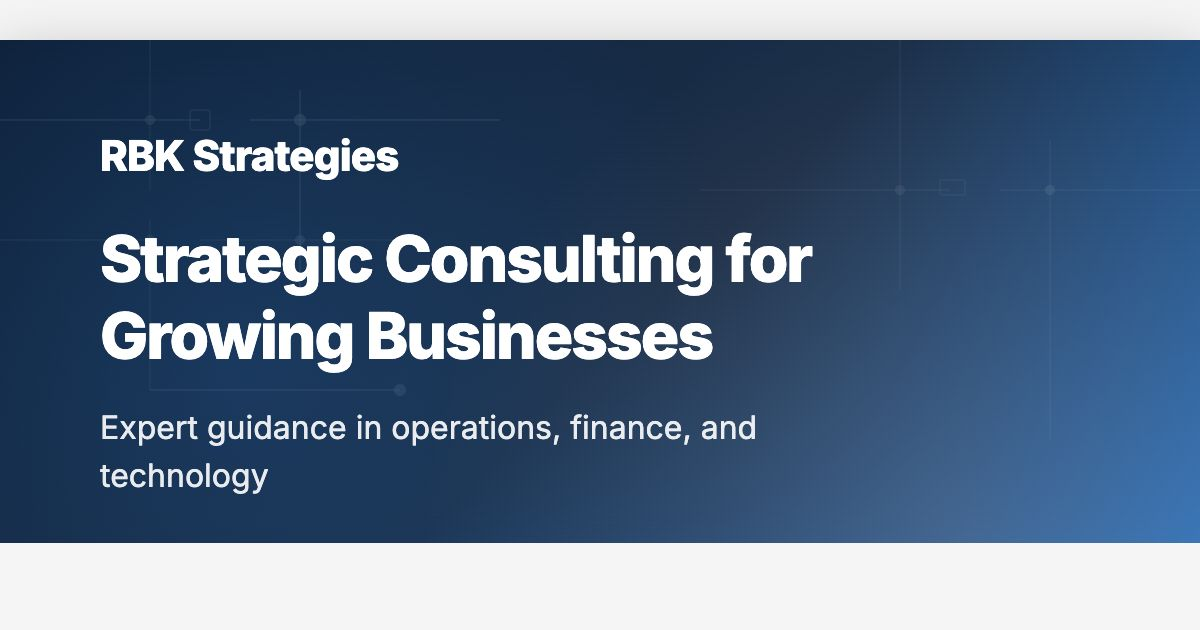
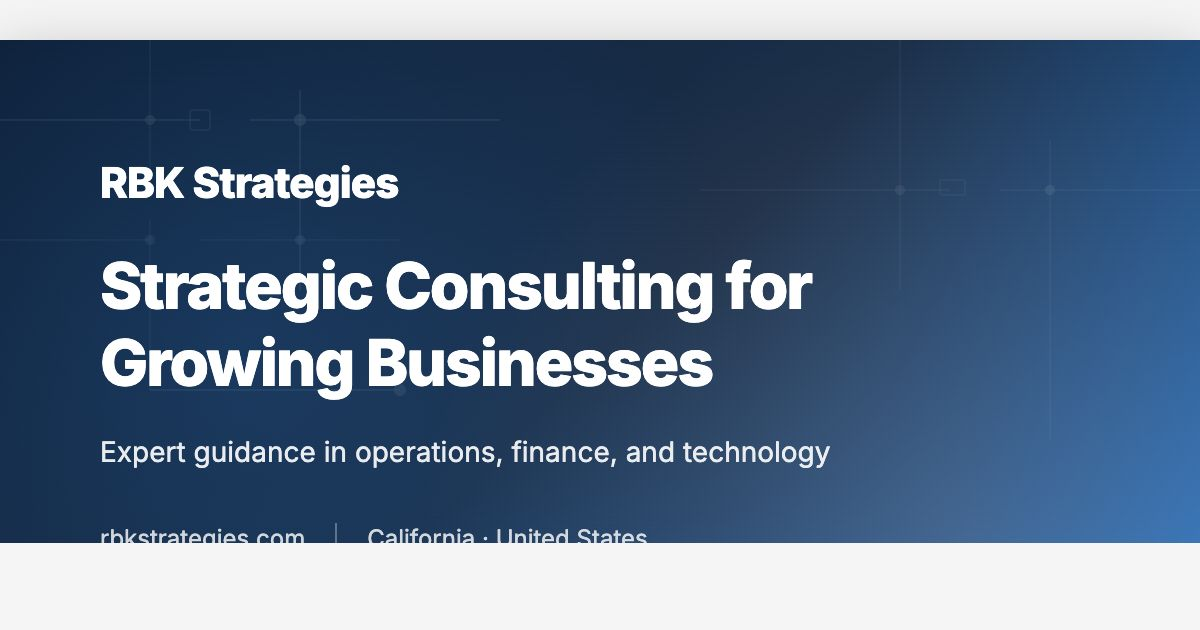
style: reduce OG image description font size for 2-line layout
Reduced description text from 32px to 28px so
'Expert guidance in operations, finance, and technology'
fits cleanly on 2 lines instead of 3.

🤖 Generated with [Claude Code](https://claude.com/claude-code)

diff --git a/og-image-template.html b/og-image-template.html
@@ -84,7 +84,7 @@
     }
 
     .description {
-      font-size: 32px;
+      font-size: 28px;
       font-weight: 400;
       color: rgba(255, 255, 255, 0.9);
       line-height: 1.5;
